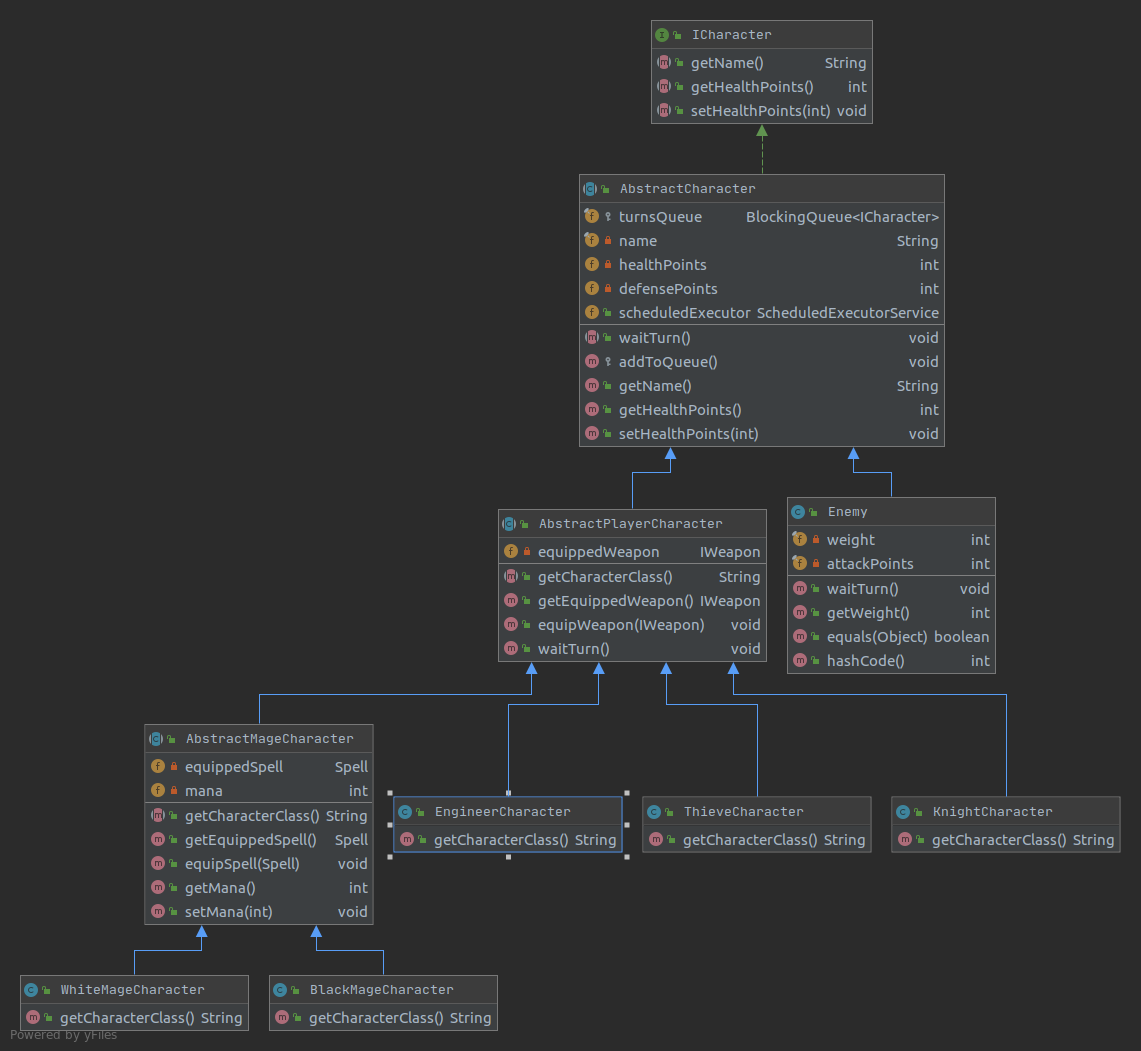
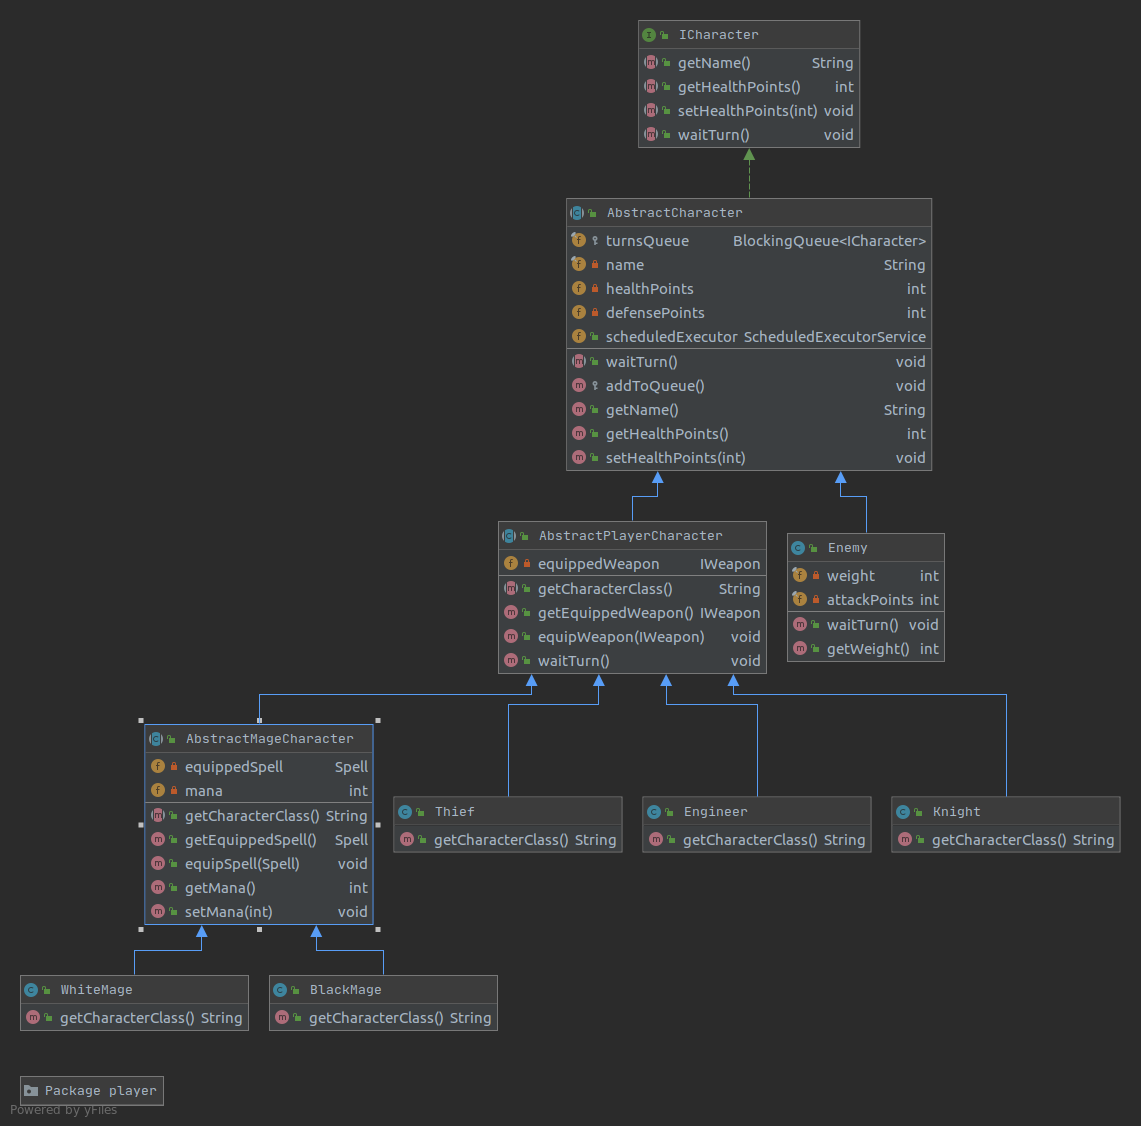
Refactor character package

diff --git a/src/main/java/com/github/cc3002/finalreality/model/character/Enemy.java b/src/main/java/com/github/cc3002/finalreality/model/character/Enemy.java
@@ -43,20 +43,4 @@ public class Enemy extends AbstractCharacter {
   public int getWeight() {
     return weight;
   }
-
-  @Override
-  public boolean equals(final Object o) {
-    if (this == o) {
-      return true;
-    }
-    if (!(o instanceof Enemy)) {
-      return false;
-    }
-    final Enemy enemy = (Enemy) o;
-    return getWeight() == enemy.getWeight();
-  }
-  @Override
-  public int hashCode() {
-    return Objects.hash(getWeight());
-  }
 }

diff --git a/src/main/java/com/github/cc3002/finalreality/model/character/ICharacter.java b/src/main/java/com/github/cc3002/finalreality/model/character/ICharacter.java
@@ -23,7 +23,10 @@ public interface ICharacter {
    * Sets this character's HP.
    */
   void setHealthPoints(int healthPoints);
-
+  /**
+   * Method to wait for character's turn.
+   */
+  public void waitTurn();
   /**
    * We should add some methods that every character should do like  atk, walk, etc.
    */
